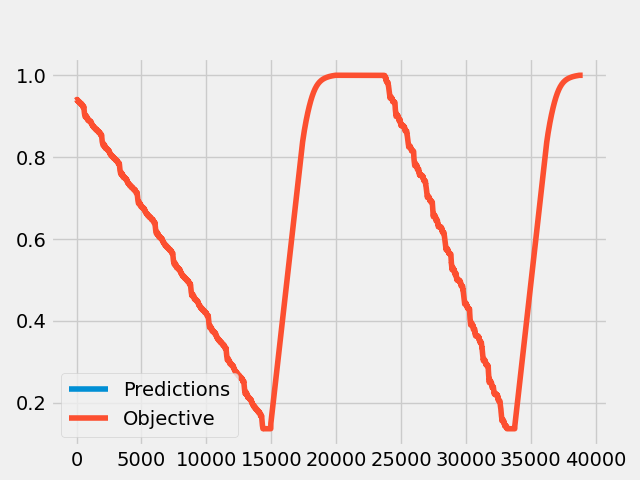
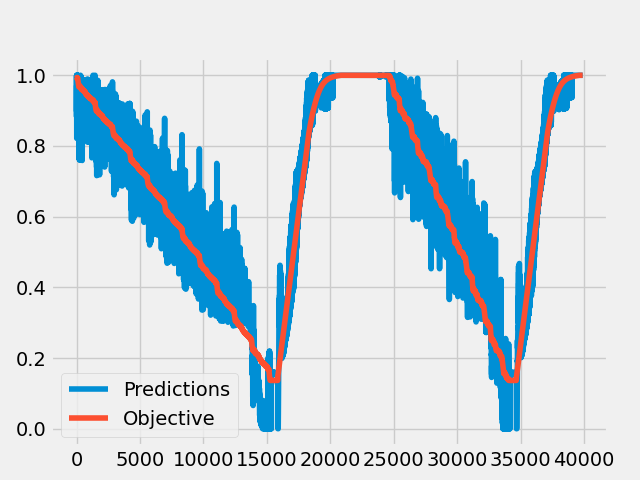
picture upload

diff --git a/main.py b/main.py
@@ -42,12 +42,12 @@ def split_sequences(sequences, n_steps):
 num_responses = 1
 num_features = 3
 num_hidden_units = 10
-epochs = 65
-batch_size = 100
+epochs = 20
+batch_size = 1000
 learn_rate_drop_period = 2000
 LearningRate = 0.01
 learn_rate_drop_factor = 0.5
-timesteps = 1000
+timesteps = 100
 n_features = 3
 
 ## prepare train data
